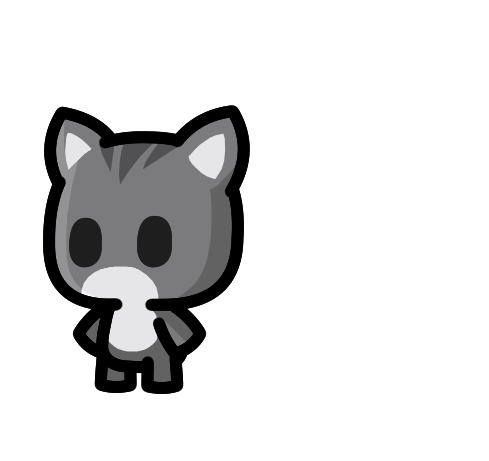
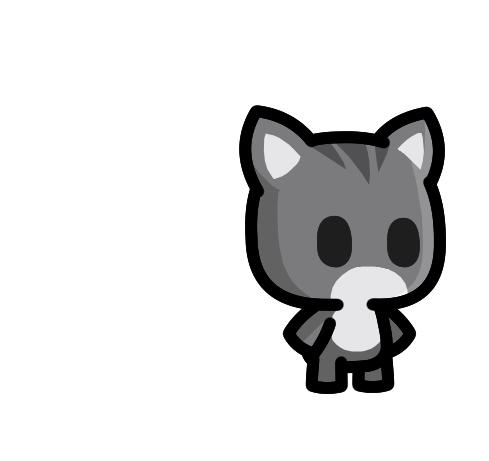
fix: sprite orientation

diff --git a/player.py b/player.py
@@ -82,7 +82,7 @@ class Player:
             base_path = os.path.join("assets", "player")
             gun_path = os.path.join("assets", "gun")
             
-            # Load the new player sprites
+            # Load the player sprites
             self.idle_sprite = pygame.image.load(os.path.join(base_path, "__Cat_Idle_000.png")).convert_alpha()
             self.run_sprite = pygame.image.load(os.path.join(base_path, "__Cat_Run_000.png")).convert_alpha()
             
@@ -94,7 +94,7 @@ class Player:
             self.idle_sprite = pygame.transform.scale(self.idle_sprite, (self.sprite_width, self.sprite_height))
             self.run_sprite = pygame.transform.scale(self.run_sprite, (self.sprite_width, self.sprite_height))
             
-            # Make sure the sprites are facing left by flipping them horizontally
+            # Create horizontally flipped versions (mirror images)
             self.idle_sprite = pygame.transform.flip(self.idle_sprite, True, False)
             self.run_sprite = pygame.transform.flip(self.run_sprite, True, False)
             
@@ -102,17 +102,17 @@ class Player:
             try:
                 # Default gun (pistol)
                 default_gun = pygame.image.load(os.path.join(gun_path, "pistol.png")).convert_alpha()
-                # Make sure the pistol is facing left by flipping it horizontally
+                # Create horizontally flipped version (mirror image)
                 default_gun = pygame.transform.flip(default_gun, True, False)
                 self.gun_sprites['default'] = default_gun
                 
                 # Fire rate boost gun (submachine)
                 boost_gun = pygame.image.load(os.path.join(gun_path, "submachine.png")).convert_alpha()
-                # Make sure the submachine gun is facing left by flipping it horizontally
+                # Create horizontally flipped version (mirror image)
                 boost_gun = pygame.transform.flip(boost_gun, True, False)
                 self.gun_sprites['fire_rate_boost'] = boost_gun
                 
-                print("Gun sprites loaded successfully")
+                print("Gun sprites loaded and flipped successfully")
             except Exception as e:
                 print(f"Error loading gun sprites: {e}")
                 # If gun sprites fail to load, we'll use the line drawing fallback
@@ -120,7 +120,7 @@ class Player:
             # Set sprite placeholder to False since we loaded the sprite
             self.sprite_placeholder = False
             
-            print("Player sprite loaded successfully")
+            print("Player sprites loaded and flipped successfully")
         except Exception as e:
             print(f"Error loading player sprite: {e}")
             # If loading fails, use placeholder
